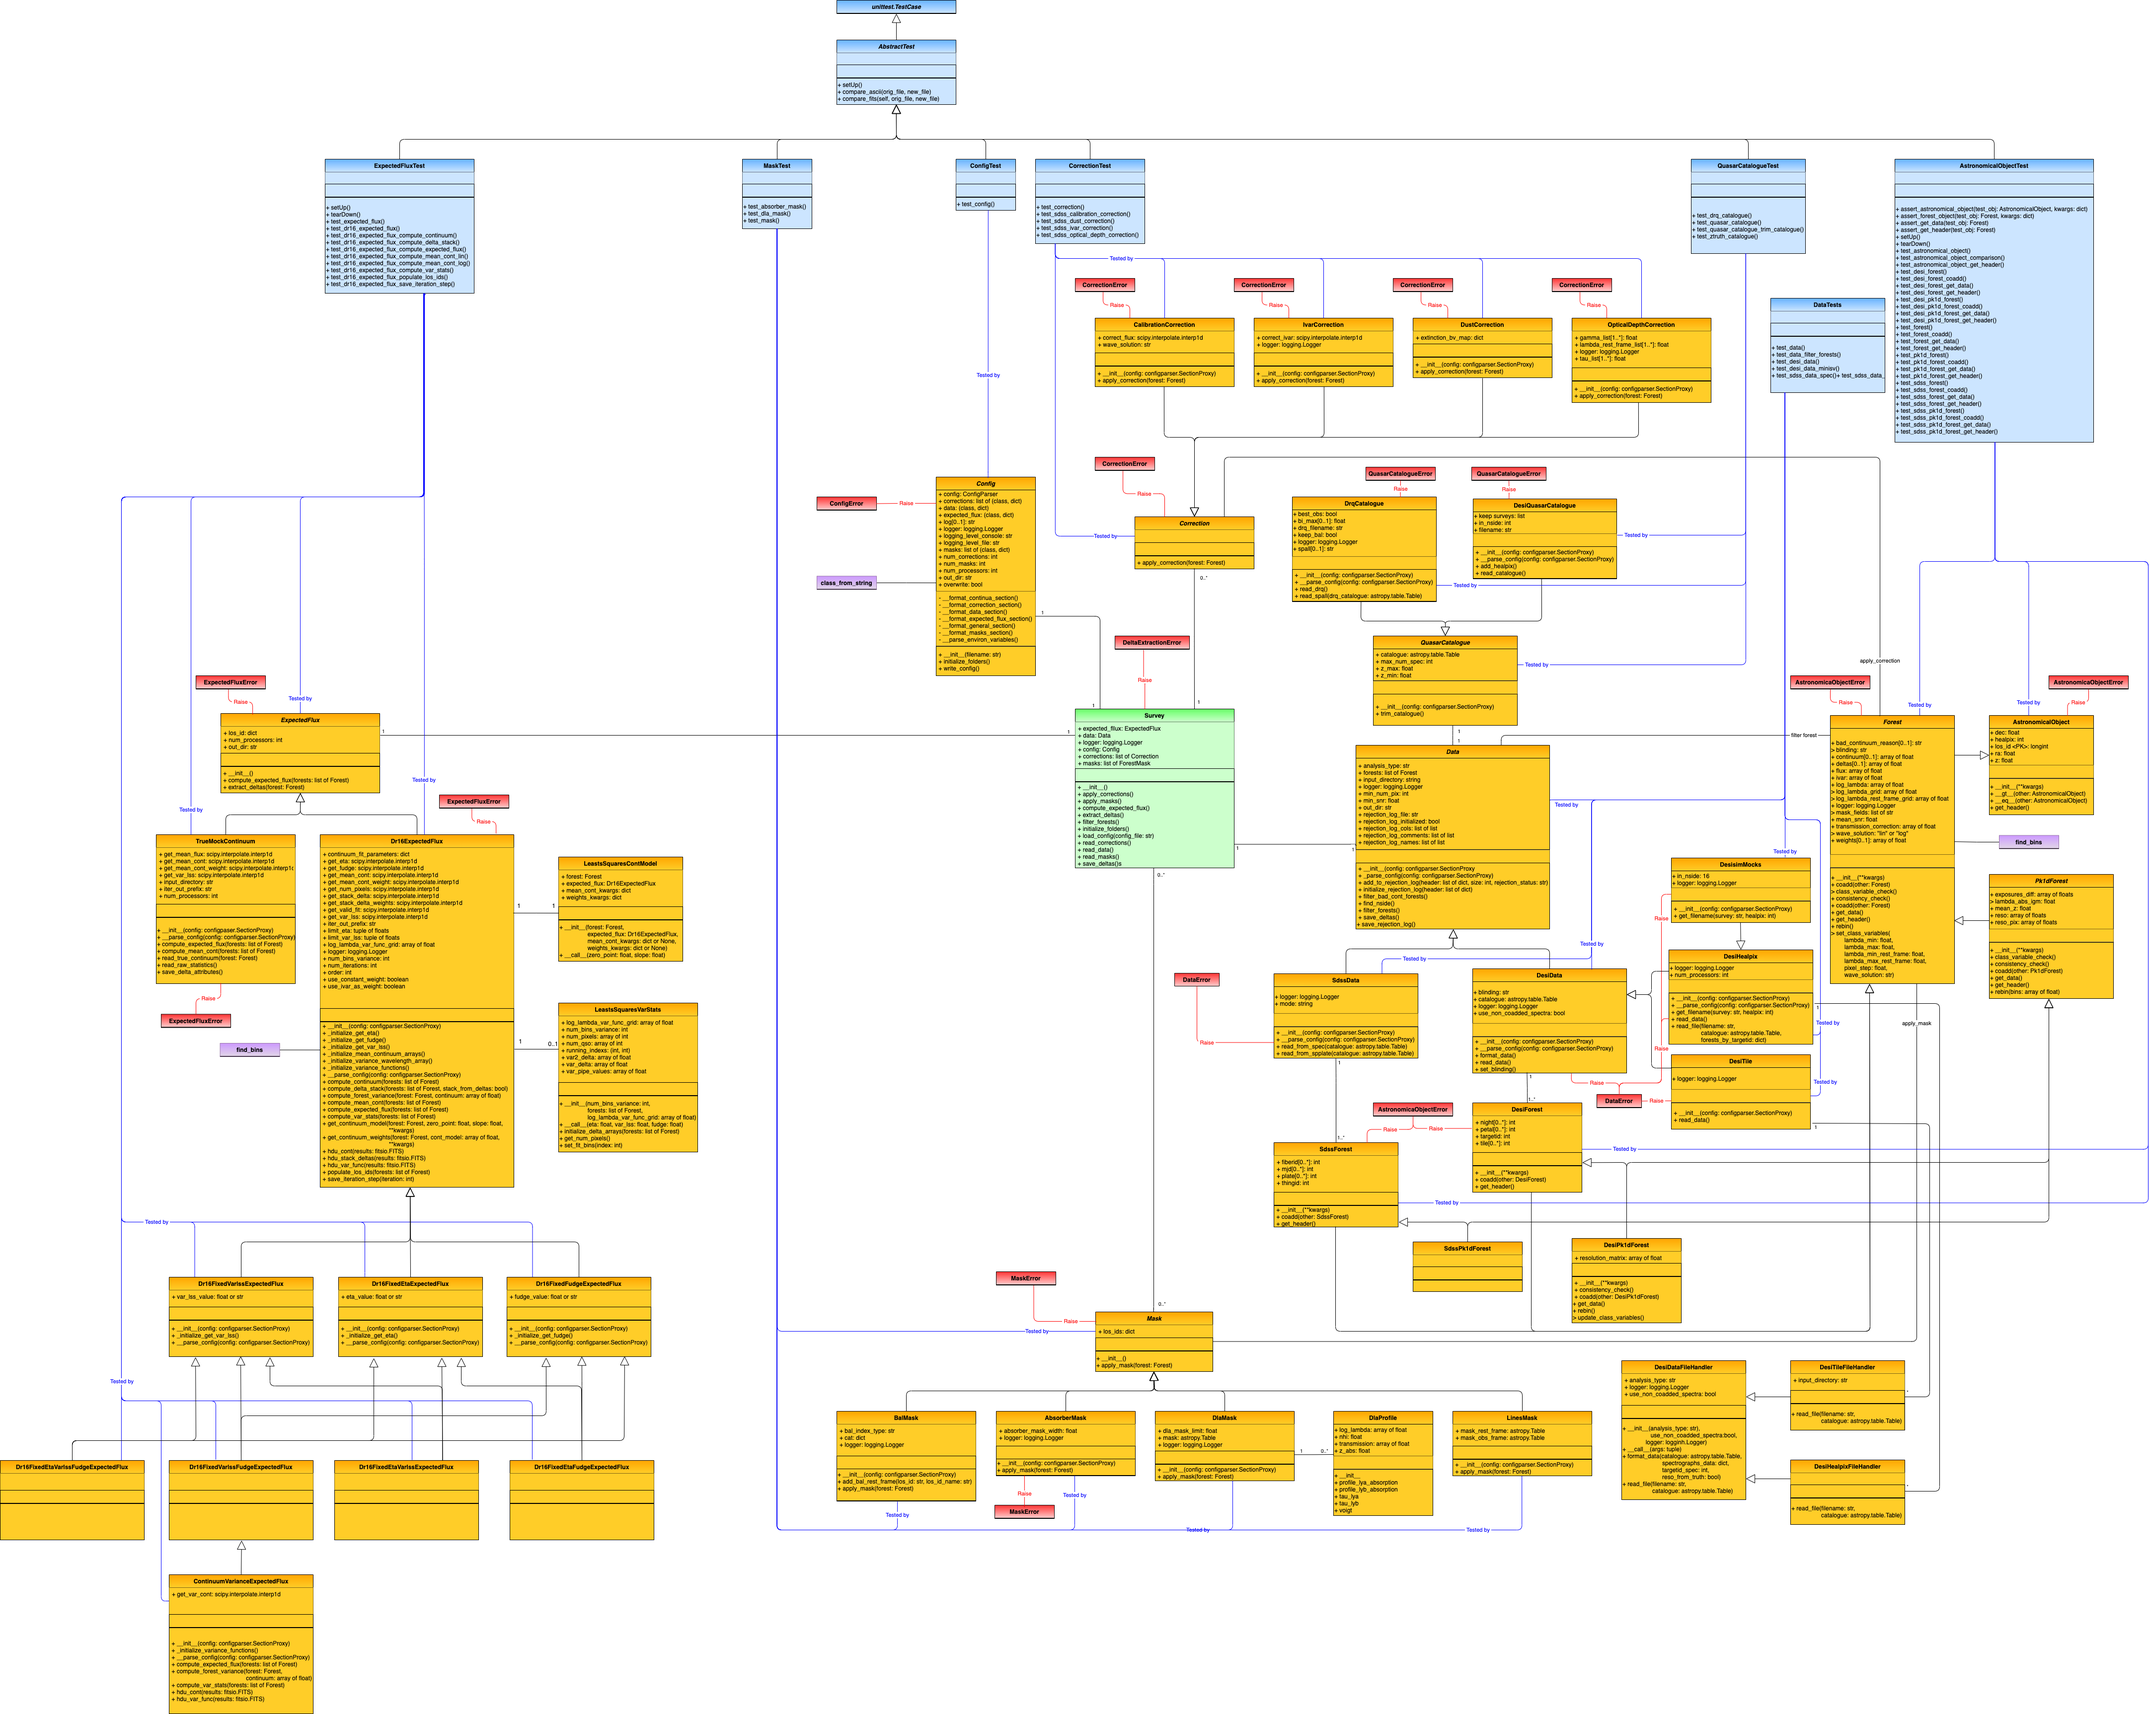
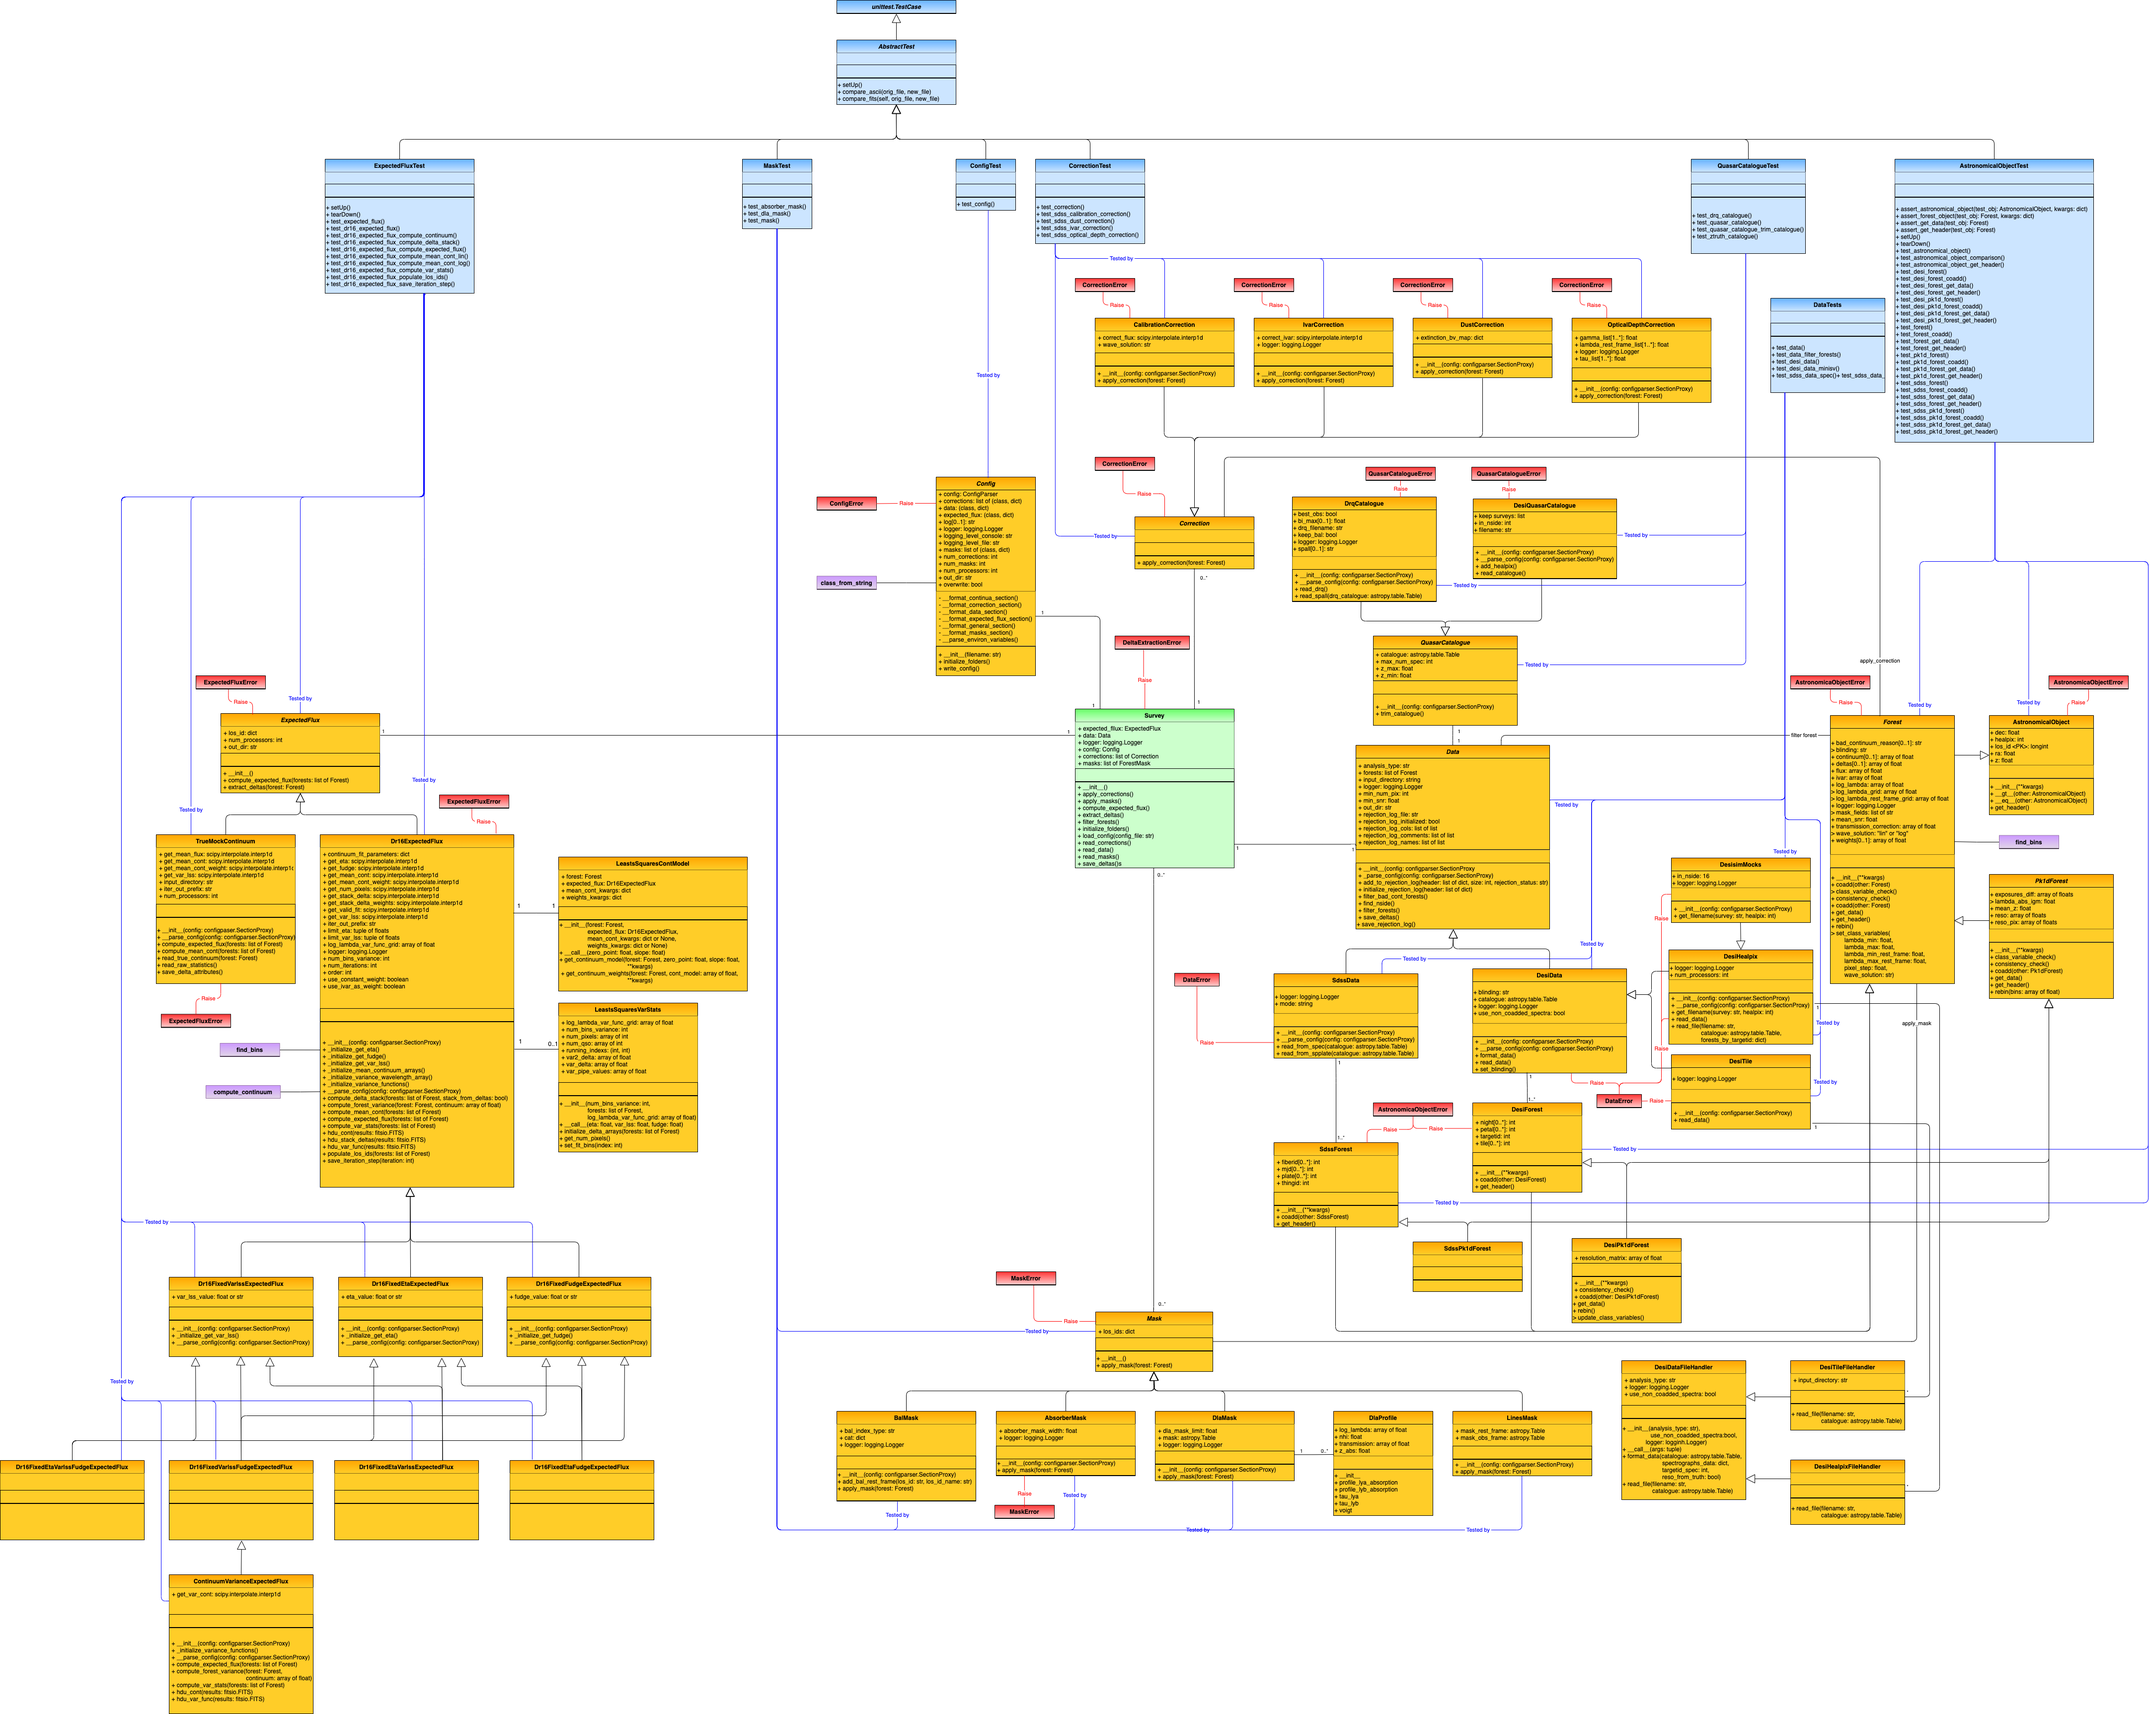
improved docstrings, fixed data model

Changed region(s): [[0.2497, 0.4961, 0.3745, 0.5891], [0.0936, 0.5891, 0.2184, 0.6821]]

diff --git a/py/picca/delta_extraction/expected_fluxes/dr16_expected_flux.py b/py/picca/delta_extraction/expected_fluxes/dr16_expected_flux.py
@@ -1,4 +1,4 @@
-"""This module defines the class Dr16ExpectedFlux"""
+"""This module defines the class Dr16ExpectedFlux and the function compute_continuum"""
 import logging
 import multiprocessing
 
@@ -54,7 +54,6 @@ class Dr16ExpectedFlux(ExpectedFlux):
     _initialize_variance_wavelength_array
     _initialize_variance_functions
     __parse_config
-    compute_continuum
     compute_delta_stack
     compute_forest_variance
     compute_mean_cont
@@ -710,10 +709,38 @@ def compute_continuum(forest, get_mean_cont, get_eta, get_var_lss,
     forest: Forest
     A forest instance where the continuum will be computed
 
+    get_mean_cont: scipy.interpolate.interp1d
+    Interpolation function to compute the unabsorbed mean quasar continua.
+
+    get_eta: scipy.interpolate.interp1d
+    Interpolation function to compute mapping function eta. See equation 4 of
+    du Mas des Bourboux et al. 2020 for details.
+
+    get_fudge: scipy.interpolate.interp1d
+    Interpolation function to compute mapping function fudge. See equation 4 of
+    du Mas des Bourboux et al. 2020 for details.
+
+    get_var_lss: scipy.interpolate.interp1d
+    Interpolation function to compute mapping functions var_lss. See equation 4 of
+    du Mas des Bourboux et al. 2020 for details.
+
+    use_constant_weight: boolean
+    If "True", set all the delta weights to one.
+
+    order: int
+    Order of the polynomial for the continuum fit.
+
     Return
     ------
-    forest: Forest
-    The modified forest instance
+    cont_model: array of float or None
+    The quasar continuum. None if there were problems computing it
+
+    bad_continuum_reason: str or None
+    The reason why the continuum could not be computed. None when there were
+    no problems
+
+    continuum_fit_parameters: (float, float)
+    The zero-point and the slope used in the linear part of the continuum model 
     """
     # get mean continuum
     mean_cont = get_mean_cont(forest.log_lambda - np.log10(1 + forest.z))
